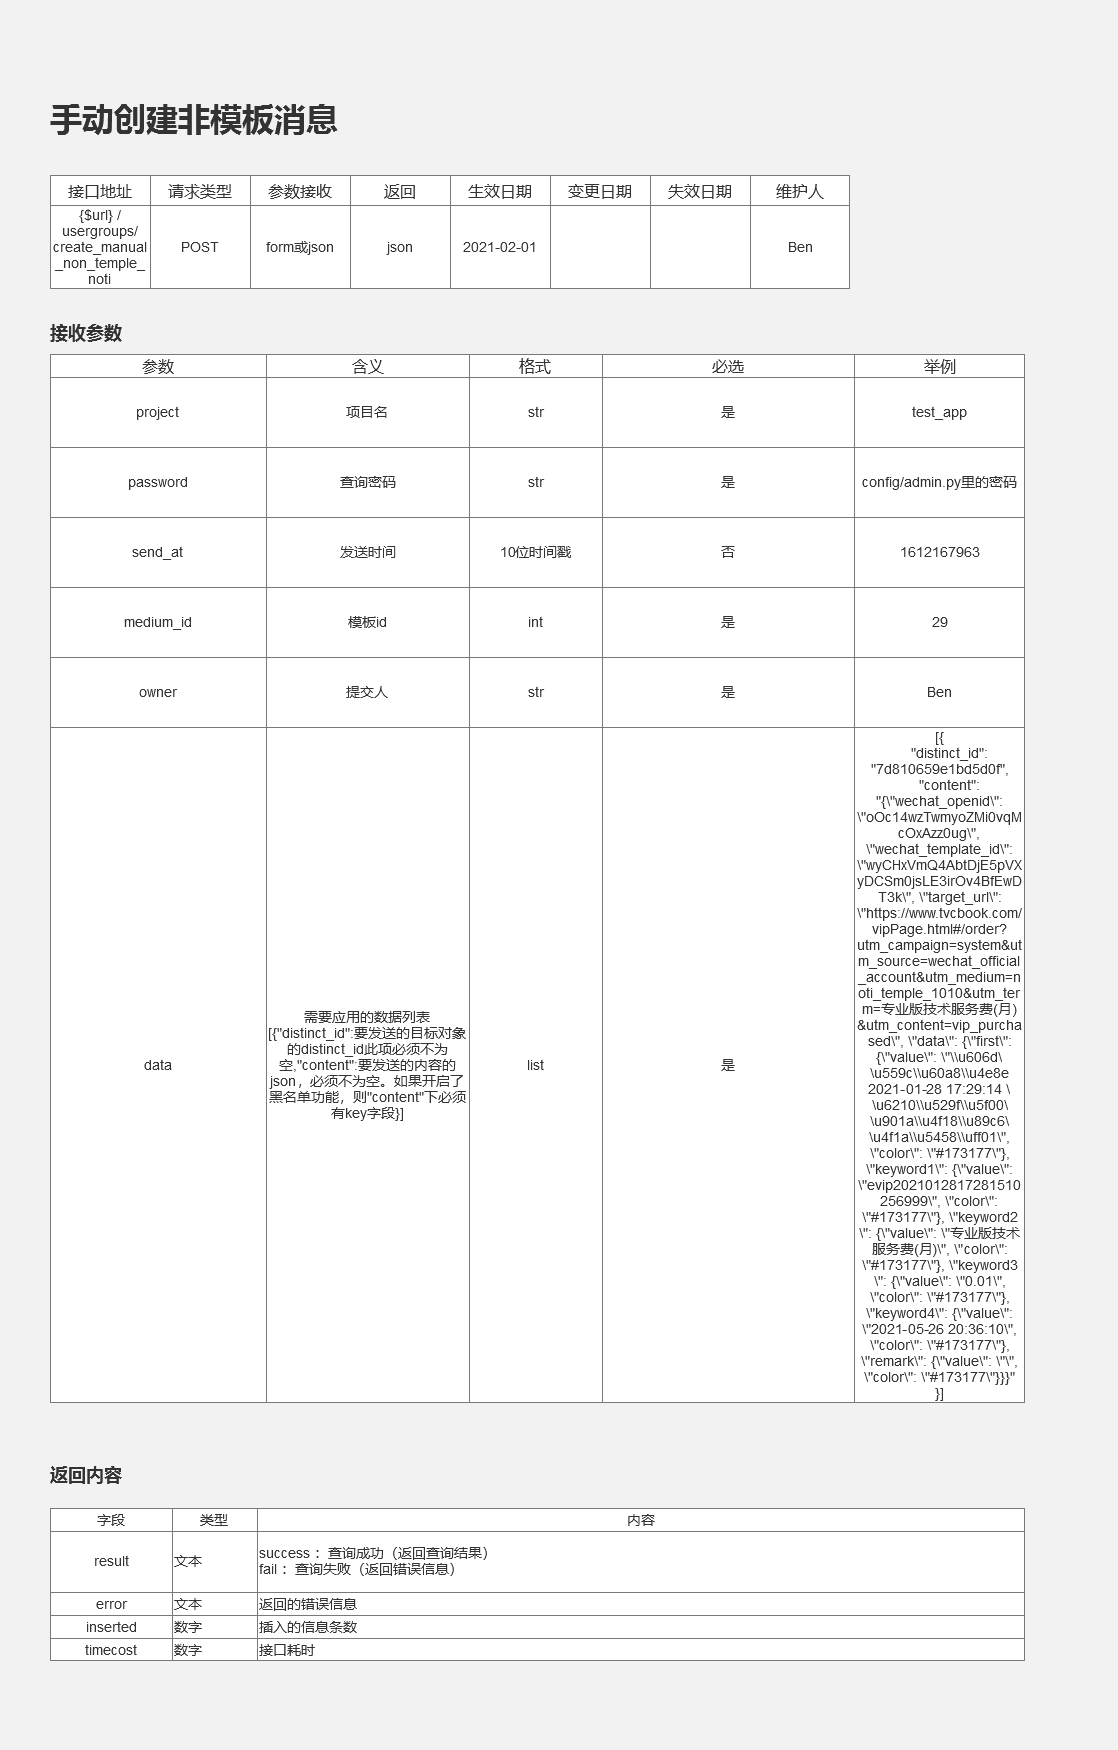
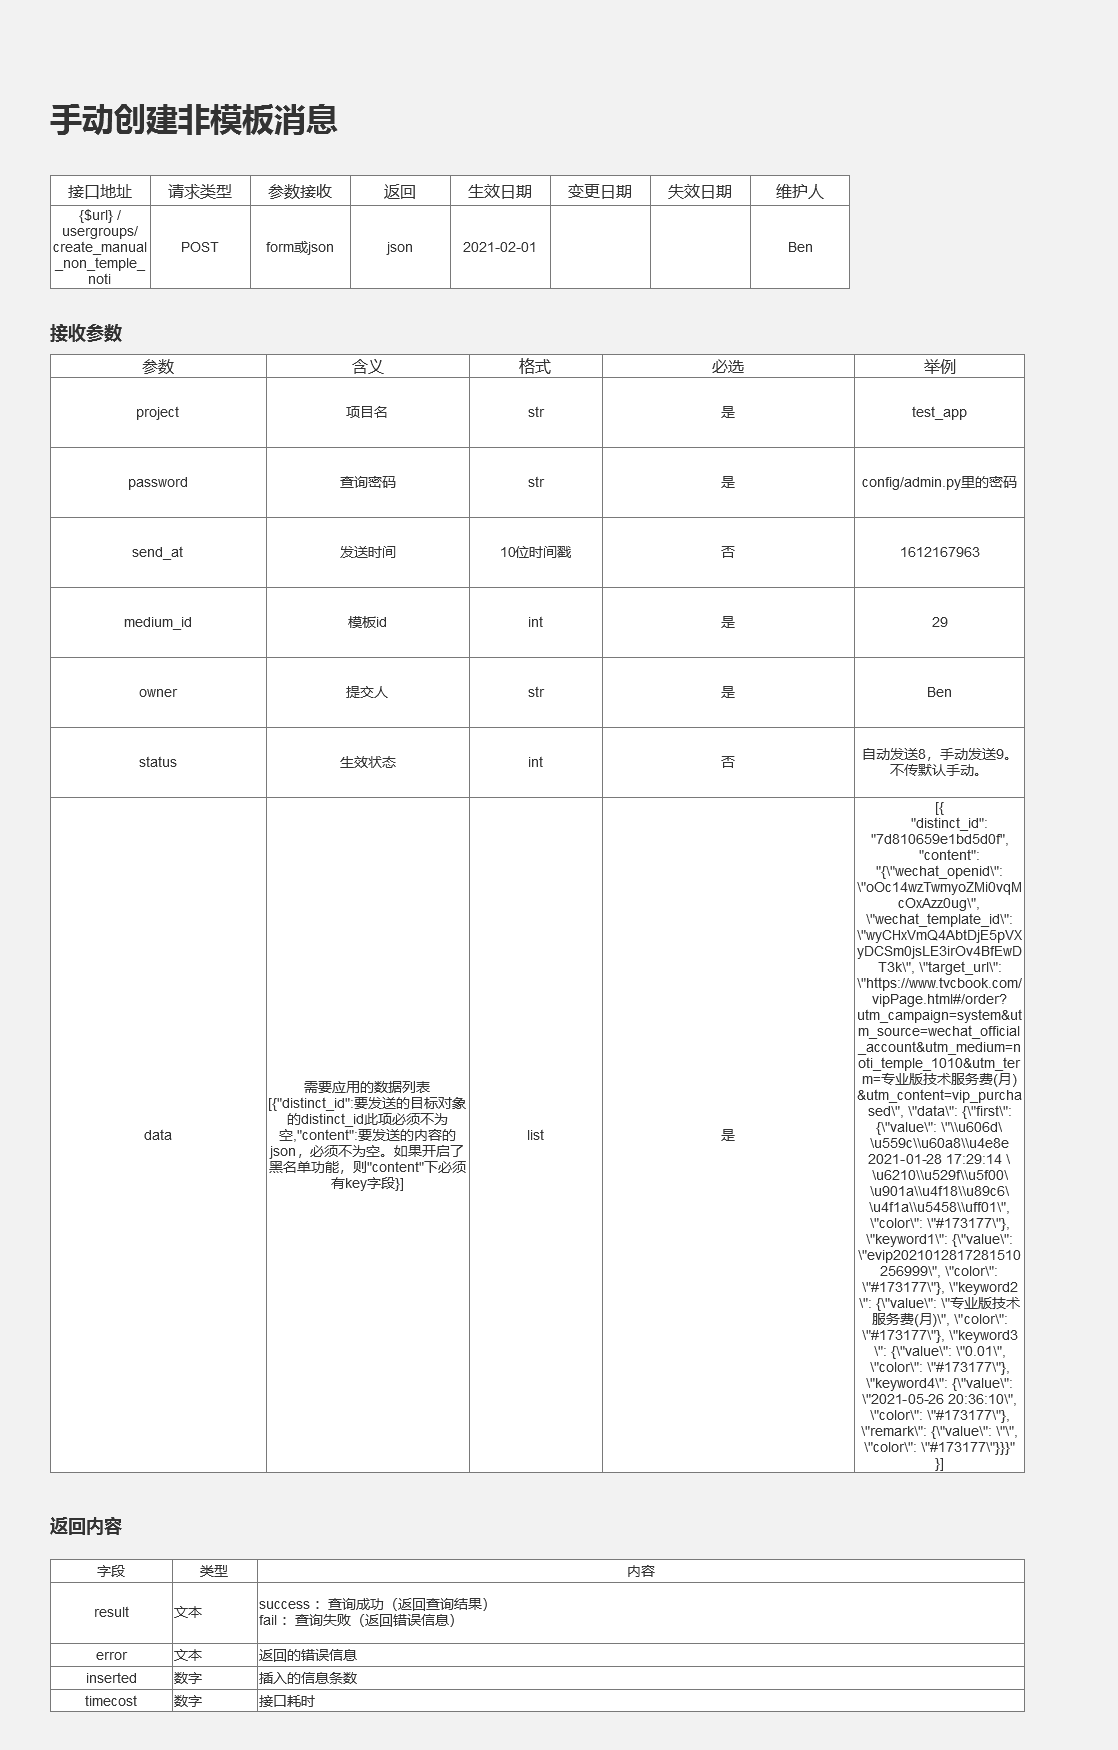
手动创建模板消息从默认自动发送，变更为可自定状态，默认手动发送。

diff --git a/component/messenger.py b/component/messenger.py
@@ -149,6 +149,7 @@ def create_non_usergroup_noti(args):
     start_time = int(time.time())
     if 'data' in args and args['data'] and args['data'] !='' and 'project' in args and args['project'] !='':
         owner = args['owner'] if 'owner' in args else 'undefined'
+        status = int(args['status']) if 'status' in args and args['status'] is not None else 9
         if 'temple_id' in args and args['temple_id'] != '':
             result_temple = select_noti_temple(project=args['project'],temple_id=args['temple_id'])
         if 'result_temple' in dir():
@@ -156,11 +157,11 @@ def create_non_usergroup_noti(args):
         elif 'medium_id' in args:
             medium_id = args['medium_id']
         send_at = args['send_at'] if 'send_at' in args else int(time.time())
-        result_group = insert_noti_group(project=args['project'],plan_id=None,list_id=None,data_id=None,temple_id=args['temple_id'] if 'temple_id' in args else None,owner=owner,send_at=send_at,sent=0,total=len(args['data']),priority=13,status=8)
+        result_group = insert_noti_group(project=args['project'],plan_id=None,list_id=None,data_id=None,temple_id=args['temple_id'] if 'temple_id' in args else None,owner=owner,send_at=send_at,sent=0,total=len(args['data']),priority=13,status=status)
         inserted = 0
         for noti in args['data']:
             if 'send_tracker' in noti and 'distinct_id' in noti['send_tracker'] and noti['send_tracker']['distinct_id'] != '':
-                insert_result = insert_noti(project=args['project'],type_1=medium_id,created_at=int(time.time()),updated_at=int(time.time()),distinct_id=noti['send_tracker']['distinct_id'],content=noti,send_at=noti['send_at'] if 'send_at' in noti else send_at,plan_id=None,list_id=None,data_id=None,temple_id=result_temple[0][0][0],noti_group_id=result_group[2],priority=13,status=8,owner=owner,recall_result=None,key=noti['key'] if 'key' in noti else None,level=noti['level'] if 'level' in noti else None)
+                insert_result = insert_noti(project=args['project'],type_1=medium_id,created_at=int(time.time()),updated_at=int(time.time()),distinct_id=noti['send_tracker']['distinct_id'],content=noti,send_at=noti['send_at'] if 'send_at' in noti else send_at,plan_id=None,list_id=None,data_id=None,temple_id=result_temple[0][0][0],noti_group_id=result_group[2],priority=13,status=status,owner=owner,recall_result=None,key=noti['key'] if 'key' in noti else None,level=noti['level'] if 'level' in noti else None)
                 inserted = inserted+insert_result[1]
         if 'temple_id' in args and args['temple_id'] != '':
             update_noti_temple(project=args['project'],temple_id=args['temple_id'],apply_times=1,lastest_apply_time=int(time.time()),lastest_apply_list = 0)
@@ -174,11 +175,12 @@ def create_non_usergroup_non_temple_noti(args):
     start_time = int(time.time())
     if 'data' in args and args['data'] and args['data'] !='' and 'project' in args and args['project'] !='' and 'medium_id' in args:
         owner = args['owner'] if 'owner' in args else 'undefined'
+        status = int(args['status']) if 'status' in args and args['status'] is not None else 9
         send_at = args['send_at'] if 'send_at' in args else int(time.time())
-        result_group = insert_noti_group(project=args['project'],plan_id=None,list_id=None,data_id=None,temple_id=None,owner=owner,send_at=send_at,sent=0,total=len(args['data']),priority=13,status=8)
+        result_group = insert_noti_group(project=args['project'],plan_id=None,list_id=None,data_id=None,temple_id=None,owner=owner,send_at=send_at,sent=0,total=len(args['data']),priority=13,status=status)
         inserted = 0
         for item in args['data']:
-            insert_result = insert_noti(project=args['project'],type_1=args['medium_id'],created_at=int(time.time()),updated_at=int(time.time()),distinct_id=item['distinct_id'],content=item,send_at=item['send_at'] if 'send_at' in item else send_at,plan_id=None,list_id=None,data_id=None,temple_id=None,noti_group_id=result_group[2],priority=13,status=8,owner=owner,recall_result=None,key=item['key'] if 'key' in item else None,level=item['level'] if 'level' in item else None)
+            insert_result = insert_noti(project=args['project'],type_1=args['medium_id'],created_at=int(time.time()),updated_at=int(time.time()),distinct_id=item['distinct_id'],content=item,send_at=item['send_at'] if 'send_at' in item else send_at,plan_id=None,list_id=None,data_id=None,temple_id=None,noti_group_id=result_group[2],priority=13,status=status,owner=owner,recall_result=None,key=item['key'] if 'key' in item else None,level=item['level'] if 'level' in item else None)
             inserted = inserted+insert_result[1]
         update_noti_group(project=args['project'],noti_group_id=result_group[2])
         return {'result':'success','inserted':inserted,'timecost':int(time.time())-start_time}

diff --git a/component/api_noti.py b/component/api_noti.py
@@ -420,6 +420,7 @@ def create_scheduler_jobs_manual():
             write_to_log(filename='api_noti',defname='create_scheduler_jobs_manual',result=error)
             returnjson = {'result':'fail','error':error}
             return jsonify(returnjson)
+
 def create_manual_temple_noti():
     #外部触发模板消息
     project = get_url_params('project')
@@ -428,6 +429,7 @@ def create_manual_temple_noti():
     password = get_url_params('password')
     owner = get_url_params('owner')
     data = get_url_params('data')
+    status = get_url_params('status')
     if password == admin.admin_password and request.method == 'POST' and owner and owner !='' and project:
         try:
             data_jsons = json.loads(data)
@@ -438,7 +440,7 @@ def create_manual_temple_noti():
                     result_temple = select_noti_temple(project=project,temple_id=temple_id)
                     result = apply_temple(project=project,temple_args=json.loads(result_temple[0][0][2]),temple_content=json.loads(result_temple[0][0][3]),data_json=item['data_json'],data_key=item['distinct_id'],send_at=send_at,group_id=None,owner=owner)
                     data_list.append(result)
-            result_insert = create_non_usergroup_noti(args={'owner':owner,'temple_id':temple_id,'project':project,'data':data_list})
+            result_insert = create_non_usergroup_noti(args={'status':status,'owner':owner,'temple_id':temple_id,'project':project,'data':data_list})
             return jsonify(result_insert)
         except Exception:
             error = traceback.format_exc()
@@ -454,6 +456,7 @@ def create_manual_non_temple_noti():
     medium_id = get_url_params('medium_id')
     owner = get_url_params('owner')
     data = get_url_params('data')
+    status = get_url_params('status')
     if password == admin.admin_password and request.method == 'POST' and owner and owner !='' and project:
         try:
             data_jsons = json.loads(data)
@@ -466,7 +469,7 @@ def create_manual_non_temple_noti():
                 elif 'distinct_id' in item and item['distinct_id'] !='':
                     item['send_at'] = send_at
                     data_list.append(item)
-            result = create_non_usergroup_non_temple_noti(args={'owner':owner,'project':project,'data':data_list,'medium_id':medium_id})
+            result = create_non_usergroup_non_temple_noti(args={'status':status,'owner':owner,'project':project,'data':data_list,'medium_id':medium_id})
             return jsonify(result)
         except Exception:
             error = traceback.format_exc()
